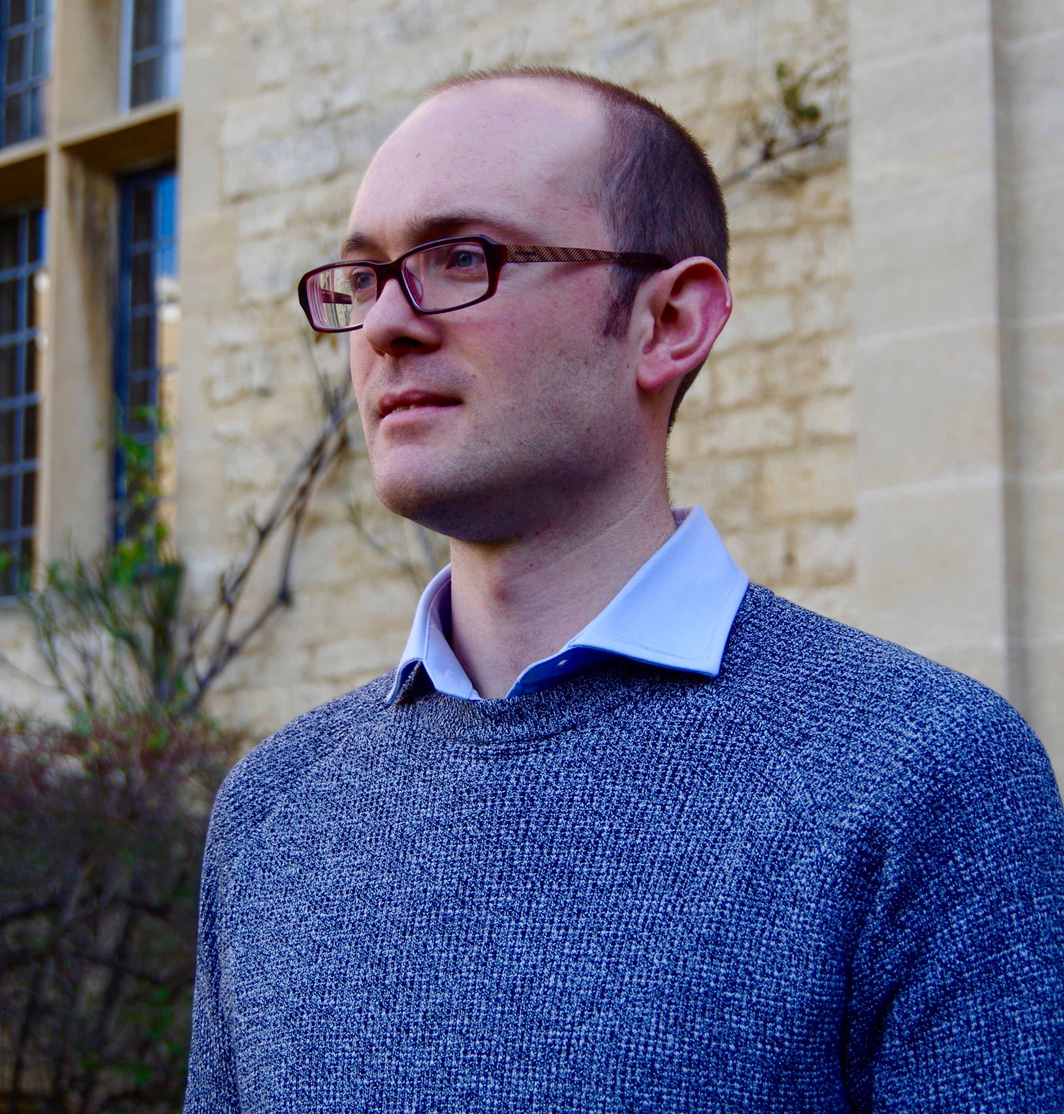
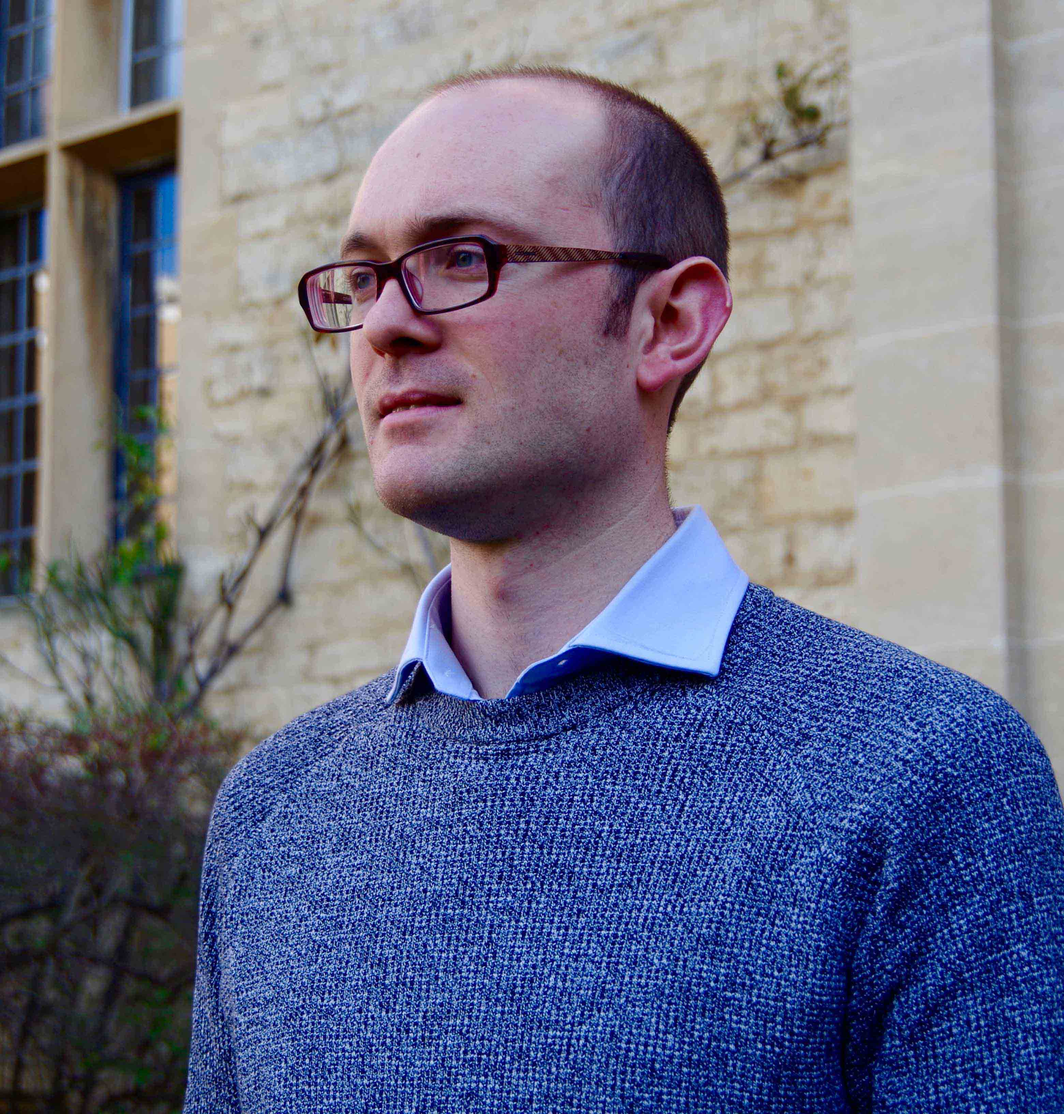
various mobile friendly updates

diff --git a/app/templates/Home.html b/app/templates/Home.html
@@ -20,7 +20,7 @@
 <div class="cv3-envaleur">
 <h2 style="text-align:center;font-family:Helvetica; font-color:black;"><span>A personal perspective</span></h2><br />
 <div id="profilephoto">
-<img src="/static/img/Adam_2.jpeg" alt="Adams face" height="400" width="400" style="box-shadow: 0 4px 8px 0 rgba(0, 0, 0, 0.2), 0 6px 20px 0 rgba(0, 0, 0, 0.19); position: absolute; right: 10%; margin: 40;">
+<img src="/static/img/Adam_2.jpeg" alt="Adams face" style="box-shadow: 0 4px 8px 0 rgba(0, 0, 0, 0.2), 0 6px 20px 0 rgba(0, 0, 0, 0.19); position: absolute; right: 10%; margin: 40; width: 30%; height: auto;">
 
 
 <div id="personalinfo">

diff --git a/app/static/css/custom.css b/app/static/css/custom.css
@@ -212,7 +212,7 @@ color: grey;
 #profilephoto{
 width: 100%;
 display: block;
-position: absolute;
+position: relative;
 }
 .losinfo2{
 font-size:25px;
